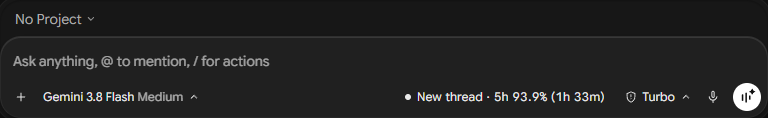
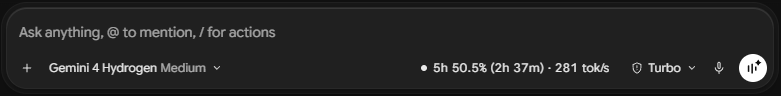
chore(release): prepare Antigravity Monitor v1.3.0

diff --git a/RELEASE_NOTES.md b/RELEASE_NOTES.md
@@ -1,24 +1,31 @@
-# Antigravity Monitor v1.2.0
+# Antigravity Monitor v1.3.0
 
-Antigravity Monitor keeps context usage, model quotas, and the active conversation thread on screen within reach. The white desktop app uses a background companion that activates automatically alongside Antigravity; Antigravity IDE and VS Code also have native status-bar and dashboard surfaces.
+Antigravity Monitor keeps context usage, model quotas, and the active conversation thread on screen within reach. The white desktop app uses a background companion that starts at sign-in without a console window and recognizes Antigravity when it opens. Antigravity IDE and VS Code keep their native status-bar and dashboard surfaces.
 
 ## Highlights
 
-- **Forward-compatible quota pools & tie-breaking:** Resolves multi-pool quota identities dynamically from pool descriptions (`Models within this group: ...`), dedicated-pool tokens, family matching, and window aliases (`7d`/`week`, `five_hour`/`5_hour`/`5-hour`/`session`), disambiguating pools that share `100%` weekly resets (such as `Claude and GPT models` vs `Gemini 4 Argon`).
-- **Dynamic model catalog & slug humanization:** Adds fallback metadata for `M532`..`M535` (`Gemini 4 Neon`), `M537` (`Orchestrator (Neon)`), and `M578` (`Gemini 4 Hydrogen Sonar`), automatically humanizes raw slugs (e.g. `gemini-4-hydrogen-sonar` -> `Gemini 4 Hydrogen Sonar`), supports expanded field aliases and name-based pricing fallback, raises the model row cap to `64`, and retries partial account refreshes with `10s` backoff.
-- **Schema, binary & DevTools bridge resilience:** Reads `metadata.requestedModel.model`, future step types with `metadata.modelUsage`, alternate token field names, bare `RUNNING`/`IDLE` statuses, renamed backend binaries (`cortex_server*`, `antigravity_server*`), and updated CDP badge attachment (`VERSION = 24`: `127.0.0.1:9222` fallback probe, semantic `Turbo`/model-button & `Ask` fallbacks, dashboard badge status + 1-click **Relaunch Antigravity with badge** control, `"Antigravity (with Monitor)"` Start Menu shortcut, clean upgrade replacement, and normalized ZIP forward-slash headers) including VS Code Insiders.
-- **Dashboard & inline motion upgrades:** Refines dark/light `data-terminal` contrast (`#0e1014` ground, `#0b5ed7` light accent), adds a sliding `#tab-indicator`, `scaleX` gauges with ruler ticks, Settings tactile `.switch` toggles, interactive `Daily usage` hover/focus readout, topbar `Copy` button, inline card/pill transitions, and `prefers-reduced-motion` support.
+- **Silent sign-in start & native Windows 11 tray flyout:** the Windows Startup shortcut, `HKCU\...\Run` entry, and `AntigravityMonitor` logon task start the companion through `Antigravity Monitor.exe --companion` with no console window and enable a single-instance Windows system tray icon. Left-clicking the tray (**Open Antigravity (Active Thread)**) focuses or launches Antigravity and opens the Monitor right-side browser panel directly in the foreground session; **Open Monitor Dashboard** toggles a native, always-on-top GDI+ Windows 11 flyout docked above the bottom-right taskbar (no taskbar icon, zero Edge/WebView2 processes, ~15 MB RAM).
+- **Companion survives closing windows:** the companion no longer shares a visible console, so closing a window cannot stop it. If it stops anyway, the logon task restarts it (up to three times, one minute apart).
+- **Dashboard starts the companion first:** `Antigravity Monitor.exe` from the Start Menu starts the hidden companion and opens the native lightweight flyout directly without spawning a console window.
+- **Failures are recorded:** startup errors are appended to `companion-error.log` in the Antigravity Monitor data folder. Nothing is shown on screen, so this log is the place to look.
+- **Startup races and slow starts handled:** when two launchers race for the port, the one that loses adopts the running companion. Readiness waits up to 20 seconds.
+- **Adaptive multi-version Antigravity support (2.34+ and future releases):** newer Antigravity builds (2.34 verified) omit `--csrf_token` from the language server command line. The monitor now uses a 4-tier adaptive auth/RPC chain (CLI token → runtime config token → passive CDP network header capture → same-origin in-page RPC fallback), future-proof backend discovery (`--https_server_port 0` / `--standalone`), 5-tier adaptive inline badge anchoring, and live runtime version-change recovery. When no DevTools session is attached yet, it reports **Authorization needed** instead of Standby.
+- **Accurate output speed, session cache hit ratio & Dark/Light themes:** fixed ~2× `tok/s` undercounting on thinking turns, included `cacheCreate` in 1-decimal cache hit ratios (last-turn breakdown + session-wide KPI), added crafted Obsidian Dark and Alabaster Light themes with a top-bar toggle (`T`), and replaced the inline card's top-left label with a clickable masked/unmasked active Antigravity account email.
+- **Safer DevTools badge:** the inline badge attaches only to page targets, never to workers or other debuggees on the same port, and auto-discovers additional `Antigravity*` profile channels.
+- **Accurate diagnostics:** discovery notes reach the snapshot when they change, and a poll that is refused by the backend names the token problem rather than a missing backend.
 
 ## Install
 
-Platform-specific universal packages (**Antigravity-Monitor-1.2.0-windows.zip**, **Antigravity-Monitor-1.2.0-macos.zip**, **Antigravity-Monitor-1.2.0-linux.zip**) and the combined **Antigravity-Monitor-1.2.0-companion.zip** include the runtime, **antigravity-monitor-1.2.0.vsix**, and native installers (`Install Antigravity Monitor.exe` / `.cmd`, `Install Antigravity Monitor.command`, `Install Antigravity Monitor.sh`) with executable permissions preserved for macOS/Linux. Node.js 22+ is required. Compare hashes against `SHA256SUMS.txt` before installation.
+Platform-specific universal packages (**Antigravity-Monitor-1.3.0-windows.zip**, **Antigravity-Monitor-1.3.0-macos.zip**, **Antigravity-Monitor-1.3.0-linux.zip**) and the combined **Antigravity-Monitor-1.3.0-companion.zip** include the runtime, **antigravity-monitor-1.3.0.vsix**, and native installers (`Install Antigravity Monitor.exe` / `.cmd`, `Install Antigravity Monitor.command`, `Install Antigravity Monitor.sh`) with executable permissions preserved for macOS/Linux. Node.js 22+ is required. Compare hashes against `SHA256SUMS.txt` before installation.
+
+To upgrade a Windows installation, extract the v1.3.0 package and run the installer from that folder. It replaces the sign-in entries that pointed at PowerShell, stops the previous companion, keeps `state.json`, and backs up the prior runtime.
 
 ## Things to notice
 
-- **Inline composer snippet requires a DevTools launch:** Desktop Antigravity displays the snippet pill to the left of `Turbo` only when launched with `--remote-debugging-port=9222`. In-app **Reload** (`Ctrl+R`), plain Antigravity shortcuts, and Antigravity auto-updates (`--updated`) keep DevTools disabled. Click **Relaunch Antigravity with badge** in the Overview notice on **http://127.0.0.1:4599**, or open **Antigravity (with Monitor)** from the Windows Start Menu.
-- **Clean upgrades, PC boot & Antigravity update pipeline:** Running the Windows or POSIX installer preserves `state.json`, backs up prior runtime and config files, cleans replaced `out/src`, `tools`, and `media` folders before copying `v1.2.0`, registers a per-user logon Scheduled Task (`AntigravityMonitor` with automatic restart on failure and fallback `node.exe` resolution) alongside Startup/Run entries on Windows (`ThrottleInterval` + `KeepAlive` on macOS), watches the installed Antigravity binary and backend PID transitions to refresh telemetry, quotas, model catalogs, CDP badge attachment, and Start Menu shortcuts simultaneously whenever Antigravity updates, and installs `antigravity-monitor-1.2.0.vsix` (reload open Antigravity IDE / VS Code windows afterward).
-- **Unsigned packages & checksums:** Verify downloaded archives against `SHA256SUMS.txt` before extracting or running.
+- **Antigravity 2.34+ telemetry & inline badge need DevTools:** desktop Antigravity 2.34+ omits the CLI token, so both live telemetry and the inline composer snippet require launching Antigravity with `--remote-debugging-port=9222`. Use the system tray (**Open Antigravity (Active Thread)**), **Relaunch Antigravity with badge** in the dashboard, or **Antigravity (with Monitor)** from the Windows Start Menu. Plain shortcuts and in-app Reload keep DevTools off.
+- **Windows launchers:** the EXE launchers are build outputs and are not committed. Run `scripts/build-windows-launchers.ps1` before packaging from source. Downloaded packages already contain them.
+- **Unsigned packages and checksums:** verify downloaded archives against `SHA256SUMS.txt` before extracting or running them.
 
 ## Verification and limits
 
-Windows verification includes compilation, **217** passing unit/integration tests, `npm audit` (`0` vulnerabilities), rebuilt Windows launcher verification (`v1.2.0` metadata), live `Antigravity.exe 2.33.0` backend telemetry (`24` picker models) and live Electron CDP inline snippet attachment (`attached: 1`, `probedPages: 5`), `16` WCAG AA contrast checks (`>= 4.96:1`), and headless Chrome interactive verification across desktop/companion/mobile dark and light views. **Native macOS and Linux runtime execution remain unverified** on physical hardware.
+Windows verification for this release includes compilation, **233** passing unit and integration tests, a passing live check (`npm run live`) against Antigravity 2.34.0 (`status ok`, `source measured`, 24 picker models), rebuilt Windows launcher and tray checks at `v1.3.0` metadata, VSIX packaging, and release archive + `SHA256SUMS.txt` generation. **Interactive desktop sign-in and tray click behavior should be confirmed after installing.** Native macOS and Linux runtime execution remain unverified on physical hardware.

diff --git a/README.md b/README.md
@@ -13,30 +13,30 @@
 </p>
 
 <p align="center">
-  <a href="https://github.com/benedictusrey/Antigravity-Monitor/releases"><img src="https://img.shields.io/badge/release-v1.2.0-4daafc?style=flat-square" alt="v1.2.0 release"></a>
+  <a href="https://github.com/benedictusrey/Antigravity-Monitor/releases"><img src="https://img.shields.io/badge/release-v1.3.0-4daafc?style=flat-square" alt="v1.3.0 release"></a>
   <a href="https://nodejs.org/"><img src="https://img.shields.io/badge/Node.js-22%2B-43853d?style=flat-square" alt="Requires Node.js 22 or newer"></a>
   <a href="LICENSE"><img src="https://img.shields.io/badge/license-MIT-4daafc?style=flat-square" alt="MIT license"></a>
 </p>
 
 <p align="center">
-  <a href="https://github.com/benedictusrey/Antigravity-Monitor/releases/tag/v1.2.0">Download v1.2.0</a> ·
+  <a href="https://github.com/benedictusrey/Antigravity-Monitor/releases/tag/v1.3.0">Download v1.3.0</a> ·
   <a href="USER_GUIDE.md">User guide</a> ·
   <a href="PRIVACY.md">Privacy</a> ·
   <a href="https://github.com/benedictusrey/Antigravity-Monitor/actions/workflows/ci.yml">Build checks</a> ·
   <a href="https://github.com/benedictusrey/Antigravity-Monitor/issues">Report an issue</a>
 </p>
 
-![Antigravity Monitor showing actual context and quota readings](assets/banners/antigravity-monitor-hero.png)
+![Antigravity Monitor showing actual context and quota readings](assets/banners/antigravity-monitor-hero.jpg)
 
 Antigravity Monitor adds a small composer readout, a detail card, and a dashboard to Antigravity. It follows the visible conversation, distinguishes new threads and child subagents, automatically discovers new models and quota pools from the local backend, and refreshes 5-hour and weekly quotas continuously. Native extensions add a status bar and dashboard inside Antigravity IDE and Visual Studio Code.
 
 ## Get started
 
-Download the archive for your OS (**Antigravity-Monitor-1.2.0-windows.zip**, **Antigravity-Monitor-1.2.0-macos.zip**, or **Antigravity-Monitor-1.2.0-linux.zip**), or **Antigravity-Monitor-1.2.0-companion.zip** for all platforms together, extract the entire folder, and keep its files together. Install [Node.js 22 or newer](https://nodejs.org/) first. No administrator or sudo access is needed.
+Download the archive for your OS (**Antigravity-Monitor-1.3.0-windows.zip**, **Antigravity-Monitor-1.3.0-macos.zip**, or **Antigravity-Monitor-1.3.0-linux.zip**), or **Antigravity-Monitor-1.3.0-companion.zip** for all platforms together, extract the entire folder, and keep its files together. Install [Node.js 22 or newer](https://nodejs.org/) first. No administrator or sudo access is needed.
 
 | Platform | Install from the extracted folder | Startup |
 |---|---|---|
-| **Windows** | Open **Install Antigravity Monitor.exe** (or `.cmd`). | Current user Startup shortcut, Run registry entry, `AntigravityMonitor` sign-in Scheduled Task (auto-restarts on failure), **Antigravity (with Monitor)** Start Menu shortcut, and VS Code / Antigravity IDE / Insiders VSIX. |
+| **Windows** | Open **Install Antigravity Monitor.exe** (or `.cmd`). | Silent sign-in startup via `Antigravity Monitor.exe --companion`, native Windows 11 system tray + lightweight GDI+ flyout (no Edge/WebView2), `AntigravityMonitor` crash-restarting Scheduled Task, **Antigravity (with Monitor)** Start Menu shortcut, and VS Code / Antigravity IDE / Insiders VSIX. |
 | **macOS** | Double-click **Install Antigravity Monitor.command** or run `sh "Install Antigravity Monitor.command"`. | Auto-locates `node` (Homebrew, nvm, fnm, volta), sets LaunchAgent, installs editor VSIX. |
 | **Linux** | Run `./"Install Antigravity Monitor.sh"` (or `sh "Install Antigravity Monitor.sh"`). | Auto-locates `node`, adds XDG autostart + desktop app entry, installs editor VSIX. |
 
@@ -53,23 +53,29 @@ The Windows EXE launchers embed the project logo and call the commands beside th
 
 ## What you can see
 
-![Actual Antigravity Monitor dashboard and live quota details](assets/banners/antigravity-monitor-features.png)
+![Actual Antigravity Monitor dashboard and live quota details](assets/banners/antigravity-monitor-features.jpg)
 
 | Feature | What it tells you |
 |---|---|
-| **Context & speed** | Used, remaining, capacity tokens, cache hit ratio, and measured output `tok/s` rate. |
+| **Context & speed** | Used, remaining, capacity tokens, 1-decimal last-turn & session cache hit ratio, and measured output `tok/s` rate (inclusive of thinking decode). |
 | **Conversation awareness** | The visible thread, a new thread, or an unidentified selection. Delayed data from another thread is rejected. |
 | **Live quotas** | Separate 5-hour and weekly limits for Gemini, Gemini Argon, and Claude/GPT quota pools, with reset countdowns and freshness. |
-| **Multiple apps** | Each discovered app keeps its own conversation. Choose an app in the dashboard to follow it. |
+| **Multiple apps & accounts** | Each discovered app keeps its own conversation; inline cards show the active Antigravity account email (click to mask/unmask). |
 | **Threads and models** | Parent/subagent hierarchy with instant search, plus automatic model catalogue and quota-pool discovery. |
 | **Usage history** | Locally observed token totals and an API-equivalent cost estimate where pricing is available. |
-| **Compact controls** | Open details, refresh readings, copy a summary, or choose what stays in the snippet. |
+| **Themes & native flyout** | Obsidian Dark and Alabaster Light themes (`T` shortcut) in the dashboard, plus a zero-browser native Windows 11 tray flyout and one-click in-app side-panel opener. |
 
 Healthy quota requests run every five seconds, independently of transcript reads. A slow conversation read does not hold up other apps' summary polling. Failures back off; cached quotas expire after 30 seconds or at their reported reset. Missing information stays unavailable rather than becoming an invented zero or full allowance.
 
+## Standalone Windows 11 flyout
+
+![Actual Antigravity Monitor native Windows 11 tray flyout](assets/banners/antigravity-monitor-flyout.jpg)
+
+On Windows, **Open Monitor Dashboard** in the system tray toggles a native Win32 / GDI+ flyout pinned above the bottom-right corner of the taskbar — no Edge process, no WebView2 overhead, no taskbar icon, and zero idle polling when hidden. Press `T` to switch between Obsidian Dark and Alabaster Light, `R` to refresh, `Esc` to hide, click your account email to mask or reveal it, or click **Open in Antigravity Panel** to jump straight into your foreground Antigravity session.
+
 ## Choose your snippet
 
-![Actual customization controls and composer snippet](assets/banners/antigravity-monitor-customization.png)
+![Actual customization controls and composer snippet](assets/banners/antigravity-monitor-customization.jpg)
 
 Click the composer readout, then expand **Customize snippet**. Choose context used, context remaining, 5-hour quota, weekly quota, model name, reset countdowns, and output `tok/s`. Changes preview immediately and save automatically. **Essentials** and **Full** remain quick presets.
 
@@ -94,7 +100,7 @@ npm run package
 
 The companion has no third-party runtime dependencies. Development tools are pinned in the lockfile. Run `npm run live` against a running Antigravity backend for local integration checks; its diagnostic output may include conversation titles.
 
-See [Architecture](docs/ARCHITECTURE.md), [Audit and validation](docs/AUDIT.md), and [Release preparation](RELEASING.md) for implementation details and verification limits. The source, extension package, companion, and current release files use **v1.2.0**.
+See [Architecture](docs/ARCHITECTURE.md), [Audit and validation](docs/AUDIT.md), and [Release preparation](RELEASING.md) for implementation details and verification limits. The source, extension package, companion, and current release files use **v1.3.0**.
 
 On Windows, run `powershell.exe -NoProfile -ExecutionPolicy Bypass -File scripts/build-windows-launchers.ps1` before installing from source or building a complete companion release. Building needs the Windows .NET Framework C# compiler. Downloaded packages already contain the launchers and need no compiler. Run `scripts/check-windows-launchers.ps1` to verify embedded icons and launch targets.
 
@@ -107,12 +113,12 @@ On Windows, run `powershell.exe -NoProfile -ExecutionPolicy Bypass -File scripts
 - Multiple windows sharing one backend can remain ambiguous. The monitor avoids choosing an unrelated conversation when selection is explicit.
 - The current release is unsigned. Native macOS/Linux startup, screen readers, and high-contrast themes need further acceptance testing.
 
-## Contribute
+## Contribute & feedback
 
-Reproducible bug reports, platform tests, clearer documentation, and focused fixes are welcome. Read [CONTRIBUTING.md](CONTRIBUTING.md) and [SUPPORT.md](SUPPORT.md) before sharing diagnostics.
+Antigravity Monitor is independently developed and maintained by [Benedictus RH (@benedictusrey)](https://github.com/benedictusrey). Reproducible bug reports, platform test results, clearer documentation, and focused pull requests are welcome. Read [CONTRIBUTING.md](CONTRIBUTING.md) and [SUPPORT.md](SUPPORT.md) before sharing diagnostics.
 
 ## License
 
-Developed by [Benedictus RH (@benedictusrey)](https://github.com/benedictusrey). Released under the [MIT License](LICENSE), without warranty.
+Created and maintained by [Benedictus RH (@benedictusrey)](https://github.com/benedictusrey). Released under the [MIT License](LICENSE), without warranty.
 
 Antigravity Monitor is an independent community project. It is not affiliated with Google, Microsoft, or their products.

diff --git a/CHANGELOG.md b/CHANGELOG.md
@@ -1,5 +1,35 @@
 # Changelog
 
+## v1.3.0
+
+Adaptive multi-version Antigravity support (2.34+ and future releases), native lightweight Windows 11 system tray flyout, accurate output speed and session cache hit ratio metrics, Dark & Light dashboard themes, clickable account email masking on the inline card, and silent console-free sign-in startup. Packages are organized under `release/v1.3.0/`.
+
+### Adaptive Antigravity 2.34+ & future-version compatibility
+
+- **4-tier adaptive auth & RPC chain** (`src/app/monitor.ts`, `src/core/rpc.ts`, `tools/cdp-badge.mjs`, `tools/monitor-server.mjs`):
+  1. CLI `--csrf_token` / `--csrf-token` / `--csrftoken` (Antigravity ≤ 2.33, IDE, VS Code).
+  2. Memory-only runtime token handoff (`window.__APP_CONFIG__.csrfToken` → `Monitor.provideToken()`), never logged or persisted (Antigravity 2.34+).
+  3. Passive CDP `Network.requestWillBeSent` header capture (`extractCsrfHeader()`, `maxTotalBufferSize: 0`, auto-disabled after capture) when a future build moves tokens into a JS closure.
+  4. Same-origin in-page RPC fallback (`BadgeInjector.callRpc()` with `credentials: 'include'`) via `MonitorDeps.rpcFallback`.
+- **Future-proof discovery & CDP attachment** (`src/core/discovery.ts`, `tools/cdp-badge.mjs`): keeps app-owned renamed server binaries using ephemeral `--https_server_port 0` or `--standalone` on both Windows and POSIX; `devtoolsEndpoints()` auto-discovers additional `Antigravity*` profile channels; `isAttachableTarget()` attaches only to `page` targets; `PROBE` recognizes `window.__APP_CONFIG__.productName`; 5-tier adaptive inline pill anchoring (`VERSION = 27`) with non-intrusive bottom-right fallback; live `appVersion` change detection with staged post-update re-attach.
+- **Unauthorized visibility** (`src/app/monitor.ts`, `src/app/snapshot.ts`, `src/app/statusbar.ts`, `src/app/strings.ts`, `media/dashboard.js`): running backends that refuse requests without a DevTools session report `unauthorized` ("Authorization needed") instead of Standby.
+
+### Native Windows 11 tray flyout & silent startup
+
+- `tools/windows-flyout.cs`, `tools/windows-launcher.cs`, `scripts/build-windows-launchers.ps1`: replaced the Edge popup with a **100% native GDI+ / WinForms Windows 11 flyout** (`FormBorderStyle.None`, `ShowInTaskbar = false`, `TopMost = true`, native `DWMWA_WINDOW_CORNER_PREFERENCE = DWMWCP_ROUND`, `CS_DROPSHADOW`, ~15 MB RAM, zero Edge/WebView2 processes, zero idle polling when hidden) docked at the bottom-right corner above the taskbar with Dark/Light theme toggle (`T`), Refresh (`R`), Close (`Esc`), and clickable account email masking.
+- **Single-instance Windows system tray (`--tray`)**: left-click / **Open Antigravity (Active Thread)** focuses or launches Antigravity with `--remote-debugging-port=9222` and opens/focuses the Antigravity Monitor right-side browser panel (`openInAppPanel` via `[data-testid="new-tab-card-new-preview"]` and `[data-testid="browser-url-input"]`); **Open Monitor Dashboard** toggles the native flyout.
+- `tools/start-companion.ps1`, `tools/install-windows.ps1`: silent `CreateNoWindow` sign-in startup via `Antigravity Monitor.exe --companion [--supervise]`, failure logging to `companion-error.log`, port-race adoption, 20 s readiness timeout, and automatic tray cleanup on upgrade.
+
+### Metrics accuracy & dashboard polish
+
+- **Output speed (`tok/s`)** (`src/core/analysis.ts`): fixed ~2× undercounting on thinking turns by dividing full `output` tokens across the `viewableAt` → `finishedGeneratingAt` decode window, and retained the last valid measured `tok/s` across tiny sub-250ms tool-call steps.
+- **Cache hit ratio & token shares** (`media/dashboard.js`): denominator now includes `cacheCreate` (`input + cacheRead + cacheCreate`) with 1-decimal precision (capped at `99.9%` when fresh/cache-write tokens exist); top breakdown shows last-turn cache hit and `<1%` for small non-zero segments; KPI strip shows session-wide cache hit ratio.
+- **Dark & Light theme + inline account email** (`media/dashboard.html`, `media/dashboard.css`, `media/dashboard.js`, `tools/cdp-badge.mjs`, `tools/monitor-server.mjs`): crafted Obsidian Dark and Alabaster Light palettes with sun/moon toggle (`T`, persisted in `localStorage`), `cache-control: no-store` on `/media/*`, and clickable censored/uncensored active account email on the inline card.
+
+### Release preparation
+
+- Version 1.3.0 (`monitorBuild` `2026-11-23-v1.3.0`) across package metadata, launcher metadata, documentation, live v1.3.0 screenshots, and release tooling; **233/233** automated tests passing and live check verified against Antigravity 2.34.0.
+
 ## v1.2.0
 
 Forward-compatibility hardening for newer Antigravity backends and model catalogs, dashboard UI/motion upgrades, and cleanly organized universal installer packages under `release/v1.2.0/`. Source, native extension, companion, Windows EXE metadata, and release packages are bumped to **v1.2.0**.

diff --git a/RELEASING.md b/RELEASING.md
@@ -1,6 +1,6 @@
-# Preparing the v1.2.0 release
+# Preparing the v1.3.0 release
 
-All current project packages and release documents use **v1.2.0**. Dependency versions retain upstream values. Banner artwork is deliberately version-free; refresh actual UI captures when product behavior changes.
+All current project packages and release documents use **v1.3.0**. Dependency versions retain upstream values. Banner artwork is deliberately version-free; refresh actual UI captures when product behavior changes.
 
 ## Validate
 
@@ -20,20 +20,20 @@ On Windows, run `powershell.exe -NoProfile -ExecutionPolicy Bypass -File scripts
 
 ## Upload-ready files
 
-The prepared release folder (`release/v1.2.0/`) contains:
+The prepared release folder (`release/v1.3.0/`) contains:
 
-- `Antigravity-Monitor-1.2.0-windows.zip`, `Antigravity-Monitor-1.2.0-macos.zip`, `Antigravity-Monitor-1.2.0-linux.zip`: OS-specific universal installer bundles with POSIX executable permissions preserved on macOS/Linux archives.
-- `Antigravity-Monitor-1.2.0-companion.zip`: complete compiled companion, installers, launcher files, native VSIX, and user documentation. It requires Node.js 22 or newer.
-- `antigravity-monitor-1.2.0.vsix`: native editor extension.
-- `Antigravity-Monitor-1.2.0-source.zip`: public source snapshot.
+- `Antigravity-Monitor-1.3.0-windows.zip`, `Antigravity-Monitor-1.3.0-macos.zip`, `Antigravity-Monitor-1.3.0-linux.zip`: OS-specific universal installer bundles with POSIX executable permissions preserved on macOS/Linux archives.
+- `Antigravity-Monitor-1.3.0-companion.zip`: complete compiled companion, installers, launcher files, native VSIX, and user documentation. It requires Node.js 22 or newer.
+- `antigravity-monitor-1.3.0.vsix`: native editor extension.
+- `Antigravity-Monitor-1.3.0-source.zip`: public source snapshot.
 - `SHA256SUMS.txt`: hashes of all downloadable packages.
 - `RELEASE_NOTES.md`: text prepared for the GitHub release body.
-- `staging/`: unpacked `repository/` snapshot and compiled `Antigravity-Monitor-1.2.0/` runtime directory used to assemble the archives.
+- `staging/`: unpacked `repository/` snapshot and compiled `Antigravity-Monitor-1.3.0/` runtime directory used to assemble the archives.
 
 Do not upload `node_modules`, local state, logs, raw process records, trajectories, downloaded app bundles, private audit workspaces, or backup folders. Runtime and source ZIPs have different purposes; source needs `npm ci` and compilation, while the runtime ZIP includes compiled files.
 
 ## Publish
 
-Create or use `benedictusrey/Antigravity-Monitor`, upload the contents of `staging/repository`, and review the Markdown and image links on GitHub. Create tag **v1.2.0** at the intended source commit, paste the release notes, and attach the package files plus checksums. Enable private vulnerability reporting if available.
+Create or use `benedictusrey/Antigravity-Monitor`, upload the contents of `staging/repository`, and review the Markdown and image links on GitHub. Create tag **v1.3.0** at the intended source commit, paste the release notes, and attach the package files plus checksums. Enable private vulnerability reporting if available.
 
 Preparing these files does not create a repository, tag, or public release. Publication is a separate maintainer action. Preserve backups and the exact checksum file that belongs to the uploaded assets.

diff --git a/docs/AUDIT.md b/docs/AUDIT.md
@@ -1,6 +1,21 @@
-# v1.2.0 release audit
+# v1.3.0 release audit
 
-Date: 19 November 2026 (updating the 17 November 2026 v1.1.0 and 6 November 2026 v1.0.0 baselines). Scope: local monitoring for desktop Antigravity, Antigravity IDE, VS Code, and VS Code Insiders, covering forward-compatible backend schemas, quota-pool disambiguation, catalog slug humanization, DevTools attachment (`VERSION = 24`), `data-terminal` UI/motion updates, and universal installer packaging.
+Date: 23 November 2026 (updating the 19 November 2026 v1.2.0, 17 November 2026 v1.1.0, and 6 November 2026 v1.0.0 baselines).
+
+## v1.3.0 Findings fixed
+
+| Priority | Concrete failure | Fix and evidence |
+|---|---|---|
+| High | Sign-in entries started PowerShell with `-WindowStyle Hidden`; Windows Terminal kept a console window open, the companion ran inside it, and closing it stopped the companion, so Antigravity was not recognized after sign-in. The logon task's last result was `0xC000013A`, the console-close exit code. | Startup shortcut, Run entry, and logon task run `Antigravity Monitor.exe --companion`, which starts the script with `CreateNoWindow`. The companion inherits that hidden console. Verified by a scratch-port run (start, reuse, supervised exit code 1 after stop, EXE-launched start) and by wiring tests in `tests/platform.test.ts`. The sign-in window was not observed on a desktop. |
+| Medium | Startup failures were invisible once the console was hidden. | Failures append to `companion-error.log`; verified by forcing a missing `package.json` (exit 1, message logged). |
+| Medium | A 6-second readiness window and a port race reported false failures when another launcher started first. | Readiness waits 20 seconds; a launcher that loses the port race adopts the running instance. |
+| High | Antigravity 2.34 hides the request token; the monitor dropped the running backend before probing it, so it reported Standby while Antigravity ran. | Token-less candidates are kept; a 401 yields `unauthorized`; the dashboard and status bar say "Authorization needed". Verified against live Antigravity 2.34.0. |
+| High | A 401 from one scheme was discarded when the other scheme failed to connect. | `dedupeBackends` ranks a refused-but-answering candidate first. Test in `tests/monitor-auth.test.ts`. |
+| High | The DevTools badge attached to any DevTools target, including workers and other debuggees on the same port. | `isAttachableTarget` accepts page targets only. Test in `tests/injector-target.test.ts`. |
+| Medium | Discovery notes never reached a stable snapshot, and a refused poll reported "No Antigravity backend answered". | Notes are part of the snapshot signature; refused polls report the token problem. |
+
+The v1.2.0 audit below remains the record of earlier conditions.
+ Scope: local monitoring for desktop Antigravity, Antigravity IDE, VS Code, and VS Code Insiders, covering forward-compatible backend schemas, quota-pool disambiguation, catalog slug humanization, DevTools attachment (`VERSION = 24`), `data-terminal` UI/motion updates, and universal installer packaging.
 
 ## v1.2.0 Findings fixed
 

diff --git a/USER_GUIDE.md b/USER_GUIDE.md
@@ -1,6 +1,6 @@
 # Antigravity Monitor user guide
 
-This guide covers v1.2.0. The white desktop app uses a separate companion. Antigravity IDE and VS Code can also run the native extension, which starts the installed companion automatically if needed.
+This guide covers v1.3.0. The white desktop app uses a separate companion. Antigravity IDE and VS Code can also run the native extension, which starts the installed companion automatically if needed.
 
 ## Install and update
 
@@ -8,7 +8,7 @@ Extract the complete companion ZIP. Install Node.js 22 or newer, then run the in
 
 The installer copies a stable runtime, preserves settings, creates startup integration, and starts the companion. Re-run it to update an existing installation. It identifies the monitor before stopping a process on port 4599 and saves the previous runtime as a backup. Do not run it with administrator or sudo privileges.
 
-Native editor extension installation depends on finding the editor CLI. If skipped, use **Extensions: Install from VSIX** inside the editor and select `antigravity-monitor-1.2.0.vsix`. Reload editor windows after installation.
+Native editor extension installation depends on finding the editor CLI. If skipped, use **Extensions: Install from VSIX** inside the editor and select `antigravity-monitor-1.3.0.vsix`. Reload editor windows after installation.
 
 macOS and Linux installation code is included, with native platform acceptance still pending. macOS installation requires a logged-in graphical session for the user LaunchAgent. Linux startup requires a desktop session that supports XDG autostart; it is not a system service.
 
@@ -81,7 +81,7 @@ Use arrow keys (or number keys `1`–`4`) to move between tabs and `r` to refres
 
 | Platform | Data | Runtime | Startup |
 |---|---|---|---|
-| Windows | `%LOCALAPPDATA%\Antigravity Monitor` | `app` beneath data | Windows Startup shortcut, `HKCU\...\Run` entry, and editor extension activation. |
+| Windows | `%LOCALAPPDATA%\Antigravity Monitor` | `app` beneath data | Windows Startup shortcut and `HKCU\...\Run` entry (both run `Antigravity Monitor.exe --companion` without a console window), the `AntigravityMonitor` logon task, and editor extension activation. Startup errors are logged to `companion-error.log`. |
 | macOS | `~/Library/Application Support/Antigravity Monitor` | `app` beneath data | `~/Library/LaunchAgents/io.github.benedictusrey.antigravity-monitor.plist`. |
 | Linux | `$XDG_STATE_HOME/antigravity-monitor` or `~/.local/state/antigravity-monitor` | `$XDG_DATA_HOME/antigravity-monitor/app` or `~/.local/share/antigravity-monitor/app` | `$XDG_CONFIG_HOME/autostart/antigravity-monitor.desktop` or `~/.config/autostart/antigravity-monitor.desktop`. |
 

diff --git a/SECURITY.md b/SECURITY.md
@@ -1,6 +1,6 @@
 # Security
 
-This document covers Antigravity Monitor v1.2.0. The project is unsigned and provided without warranty. Open source allows inspection; it does not establish that every build or environment is safe.
+This document covers Antigravity Monitor v1.3.0. The project is unsigned and provided without warranty. Open source allows inspection; it does not establish that every build or environment is safe.
 
 ## Report a vulnerability
 
@@ -23,11 +23,11 @@ These controls are not a sandbox against malicious software running as the same 
 Compare the release asset's SHA-256 with `SHA256SUMS.txt` from the same release:
 
 ```powershell
-Get-FileHash -LiteralPath .\Antigravity-Monitor-1.2.0-companion.zip -Algorithm SHA256
+Get-FileHash -LiteralPath .\Antigravity-Monitor-1.3.0-companion.zip -Algorithm SHA256
 ```
 
 On macOS use `shasum -a 256`; on Linux use `sha256sum`. A checksum detects a mismatch; it is not a signature or a guarantee of harmless code. Keep antivirus and operating-system protections enabled. Follow your organization's script and application policies.
 
 ## Support scope
 
-The active release line is v1.2.0. Windows has local execution evidence. macOS/Linux implementations are included but native acceptance is pending. Security reports about any included platform are welcome. No response-time or support-lifetime guarantee is made.
+The active release line is v1.3.0. Windows has local execution evidence. macOS/Linux implementations are included but native acceptance is pending. Security reports about any included platform are welcome. No response-time or support-lifetime guarantee is made.

diff --git a/CODE_OF_CONDUCT.md b/CODE_OF_CONDUCT.md
@@ -4,6 +4,6 @@ Everyone participating in Antigravity Monitor discussions, issues, and pull requ
 
 Keep feedback specific and constructive. Welcome different experience levels and backgrounds. Disagreement about code is normal; harassment, threats, discrimination, personal attacks, and publication of another person's private information are not acceptable.
 
-Maintainers may edit or remove inappropriate content, close discussions, or restrict participation when needed. Report concerns privately through an available maintainer contact or GitHub's reporting tools. Do not publish private details to make a report.
+The project maintainer (Benedictus RH, @benedictusrey) may edit or remove inappropriate content, close discussions, or restrict participation when needed. Report concerns privately through GitHub's reporting tools or the maintainer's contact channels. Do not publish private details to make a report.
 
 This policy applies in project spaces and when representing the project elsewhere.

diff --git a/docs/ARCHITECTURE.md b/docs/ARCHITECTURE.md
@@ -1,6 +1,6 @@
 # Architecture
 
-Antigravity Monitor v1.2.0 has a shared observer core and two presentation hosts: a native VS Code extension and a standalone companion. The white Antigravity desktop app uses the companion because it has no VS Code extension host, while the native extension also starts the installed companion automatically (`ensureCompanionRunning`) on editor activation.
+Antigravity Monitor v1.3.0 has a shared observer core and two presentation hosts: a native VS Code extension and a standalone companion. The white Antigravity desktop app uses the companion because it has no VS Code extension host, while the native extension also starts the installed companion automatically (`ensureCompanionRunning`) on editor activation.
 
 ## Data flow
 

diff --git a/CONTRIBUTING.md b/CONTRIBUTING.md
@@ -27,7 +27,7 @@ On Windows, run `powershell.exe -NoProfile -ExecutionPolicy Bypass -File scripts
 
 Explain the trigger, the resulting behavior, and how it was verified. Include screenshots for visible changes and label illustrative data. State native-platform gaps explicitly. Avoid broad refactors mixed into a small fix.
 
-All current project packages and release files remain **v1.2.0**. Do not bump the version without maintainer agreement. Dependency versions keep their own upstream values.
+All current project packages and release files remain **v1.3.0**. Do not bump the version without maintainer agreement. Dependency versions keep their own upstream values.
 
 ## Community
 

diff --git a/SUPPORT.md b/SUPPORT.md
@@ -1,6 +1,6 @@
 # Support
 
-Start with the [user guide](USER_GUIDE.md) and [known limits](README.md#known-limits). Antigravity Monitor v1.2.0 depends on local interfaces that can change when the monitored apps update.
+Start with the [user guide](USER_GUIDE.md) and [known limits](README.md#known-limits). Antigravity Monitor v1.3.0 depends on local interfaces that can change when the monitored apps update.
 
 ## Report a reproducible issue
 

diff --git a/PRIVACY.md b/PRIVACY.md
@@ -1,6 +1,6 @@
 # Privacy
 
-Antigravity Monitor v1.2.0 observes local Antigravity state. It does not run a proxy, send analytics, or call a remote account service.
+Antigravity Monitor v1.3.0 observes local Antigravity state. It does not run a proxy, send analytics, or call a remote account service.
 
 ## What it reads
 
